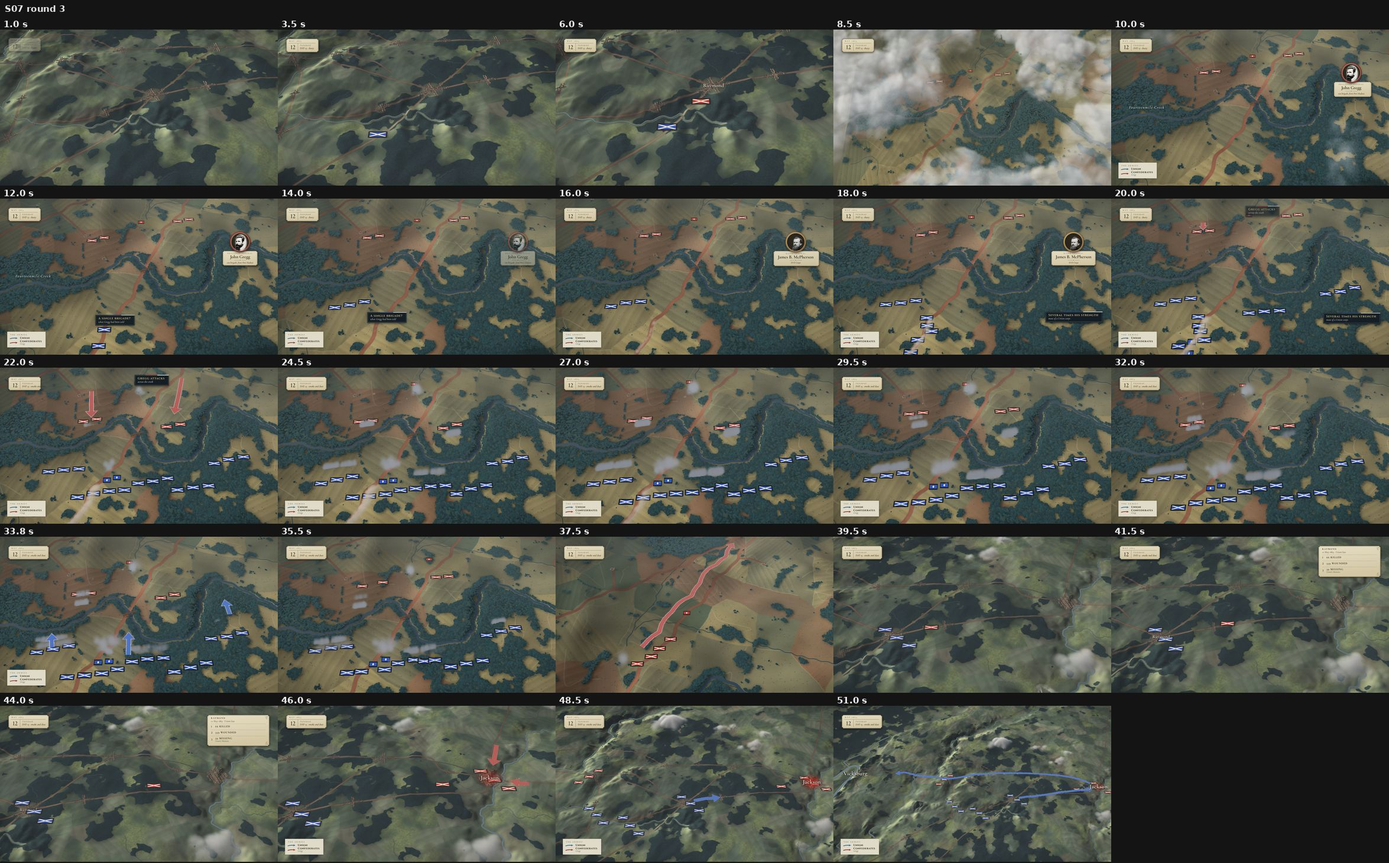
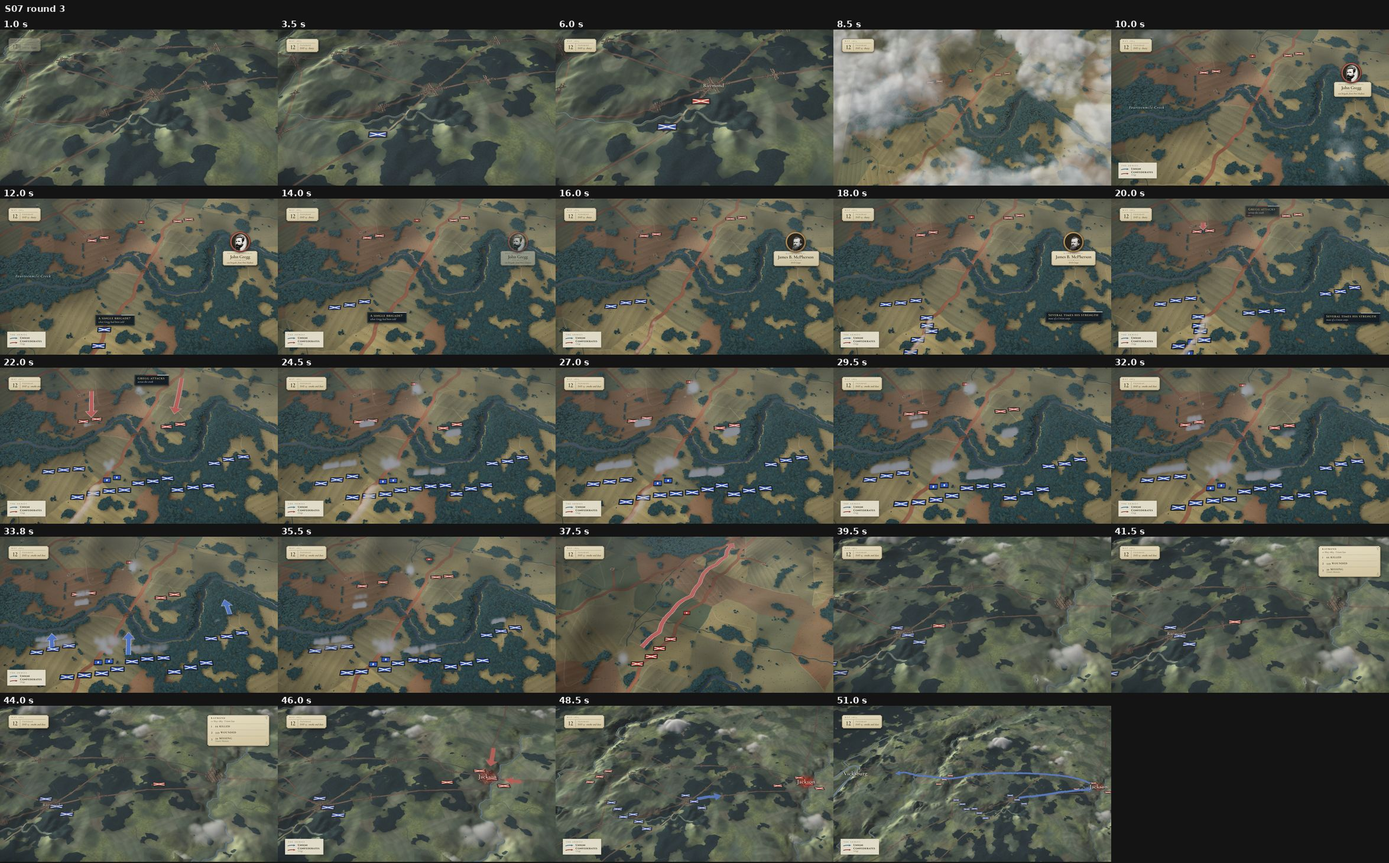
Vicksburg #19: round-3 fixes S05-S08; all scenes rebuilt for the final render
Claude-Session: https://claude.ai/code/session_011uJnjA7y1mRFw6KPGY1APG

diff --git a/vicksburg/tools/check_arrows_frame.js b/vicksburg/tools/check_arrows_frame.js
@@ -1,0 +1,25 @@
+// usage: node arrows_in_frame.js S06 [margin=0.06] : projects every arrow point (ground h=0) while the arrow is shown; reports points outside the safe frame
+const fs = require('fs'), vm = require('vm'), path = require('path');
+const V = '/home/user/battle-maps/vicksburg', sid = process.argv[2], M = +(process.argv[3] || 0.06);
+const ctx = { console, Math, JSON }; ctx.window = ctx; vm.createContext(ctx);
+const run = (f) => vm.runInContext(fs.readFileSync(f, 'utf8'), ctx, { filename: f });
+run(V + '/worlds/geo.js'); ctx.GM3D_PLACES = JSON.parse(fs.readFileSync(V + '/data/geo.json', 'utf8')).places || [];
+for (const d of fs.readdirSync(V + '/worlds')) { const f = path.join(V, 'worlds', d, 'region.js'); if (fs.existsSync(f)) run(f); }
+run(V + '/engine/seqlib.js'); run(`${V}/sequences/${sid}/seq.js`);
+const S = ctx.SEQ, EASE = { io: (k) => 0.5 - 0.5 * Math.cos(Math.PI * k), in: (k) => k ** 3, out: (k) => 1 - (1 - k) ** 3, lin: (k) => k, cut: (k) => k };
+const K = S.keys.map((k) => ({ fov: 30, yaw: 0, tilt: 45, ...k }));
+const lerp = (a, b, k) => a + (b - a) * k;
+function cam(t) { let i = 0; while (i < K.length - 1 && K[i + 1].t <= t) i++; const a = K[i], b = K[Math.min(i + 1, K.length - 1)];
+  if (b === a || b.ease === 'cut' || t <= a.t) return a; const e = EASE[b.ease || 'io'](Math.min(1, (t - a.t) / (b.t - a.t))), L = (p, q) => lerp(p, q, e);
+  return { region: a.region, at: [L(a.at[0], b.at[0]), L(a.at[1], b.at[1])], dist: Math.exp(lerp(Math.log(a.dist), Math.log(b.dist), e)), tilt: L(a.tilt, b.tilt), yaw: L(a.yaw, b.yaw), fov: L(a.fov, b.fov) }; }
+const n = (v) => { const l = Math.hypot(...v); return v.map((q) => q / l); };
+function proj(c, q) { const tl = c.tilt * Math.PI / 180, yw = c.yaw * Math.PI / 180, back = Math.sin(tl) * c.dist, up = Math.cos(tl) * c.dist;
+  const P = [c.at[0] + Math.sin(yw) * back, up, c.at[1] + Math.cos(yw) * back]; const f = n([c.at[0] - P[0], -up, c.at[1] - P[2]]);
+  const r = n([-f[2], 0, f[0]]); const u = [r[1] * f[2] - r[2] * f[1], r[2] * f[0] - r[0] * f[2], r[0] * f[1] - r[1] * f[0]];
+  const tv = Math.tan(c.fov * Math.PI / 360), th = tv * 16 / 9; const d = [q[0] - P[0], 0 - P[1], q[1] - P[2]]; const z = d[0] * f[0] + d[1] * f[1] + d[2] * f[2];
+  return [(d[0] * r[0] + d[1] * r[1] + d[2] * r[2]) / (z * th), (d[0] * u[0] + d[1] * u[1] + d[2] * u[2]) / (z * tv)]; }
+const lim = 1 - 2 * M; let bad = 0;
+(S.arrows || []).forEach((a, ai) => { const ta = a.t0 + (a.dur || 1), tb = Math.min(a.t1 ?? S.D, S.D); const hits = {};
+  for (let t = ta; t <= tb; t += 0.5) { const c = cam(t); if (a.region && c.region !== a.region) continue; a.pts.forEach((p, pi) => { const [x, y] = proj(c, p); if (Math.abs(x) > lim || Math.abs(y) > lim) { const k = pi; (hits[k] = hits[k] || []).push(`${t.toFixed(1)}:(${((x + 1) * 960).toFixed(0)},${((1 - y) * 540).toFixed(0)})`); } }); }
+  const ks = Object.keys(hits); if (ks.length) { bad++; console.log(`arrow ${ai} [${a.t0.toFixed(1)}-${tb.toFixed(1)}] side=${a.side || a.color}`); ks.forEach((k) => console.log(`   pt ${k} ${JSON.stringify(a.pts[k].map((v) => +v.toFixed(1)))} out: ${hits[k].slice(0, 4).join(' ')}${hits[k].length > 4 ? ' ...' + hits[k].length : ''}`)); } });
+console.log(`${sid}: ${bad ? bad + ' arrows leave the ' + M * 100 + '% safe frame' : 'all arrows inside the safe frame'}`);

diff --git a/vicksburg/sequences/S07/seq.js b/vicksburg/sequences/S07/seq.js
@@ -54,7 +54,7 @@ units.push({ side: "r", type: "inf", n: 1, region: WD, face: S_, t0: T.brigade, 
 units.push({ side: "u", type: "inf", n: 1, region: WD, face: N, t0: 1.2, t1: DV.SW, keys: [[0, 1660, 812], [DV.SW, 1683, 790]] });                    // McPherson's column
 units.push({ side: "u", type: "inf", n: 3, region: WD, face: VX.FACE.ne, t0: CUT, keys: [[CUT, WR[0] + 4, WR[1] + 4], [D, WR[0] + 8, WR[1] + 1]] });   // McPherson at Raymond
 units.push({ side: "u", type: "inf", n: 3, region: WD, face: VX.FACE.ne, t0: CUT, keys: [[CUT, 1648, 790]] });                                      // the rest of Grant's army, south-west
-units.push({ side: "u", type: "inf", n: 3, region: WD, face: VX.FACE.ne, t0: CUT, keys: [[CUT, 1602, 772]] });
+units.push({ side: "u", type: "inf", n: 3, region: WD, face: VX.FACE.ne, t0: CUT, keys: [[CUT, 1616, 768]] });   // round 3: inside the left edge
 units.push({ side: "r", type: "inf", n: 1, region: WD, face: Math.PI, t0: CUT, keys: [[CUT, 1748, 752], [46.0, 1846, 733]] });                      // Gregg falls back to Jackson
 units.push({ side: "r", type: "inf", n: 3, region: WD, face: VX.FACE.sw, t0: T.gathering + 0.2, keys: [[0, WJ[0] + 4, WJ[1] + 2]] });                // the force at Jackson
 units.push({ side: "r", type: "inf", n: 3, region: WD, face: VX.FACE.se, t0: CUT, keys: [[CUT, WE[0] - 6, WE[1] + 4]] });                           // Pemberton near Edwards
@@ -127,8 +127,8 @@ window.SEQ = {
     { t: 31.0, region: RY, at: [1690.6, 785.6], dist: 30, tilt: 37, yaw: -11, fov: 30 },
     { t: 35.6, region: RY, at: [1691.2, 784.4], dist: 31.5, tilt: 40, yaw: -12, fov: 30 },   // round 3: the south line stays in frame
     { t: CUT, region: RY, at: [1707.0, 765.0], dist: 36, tilt: 42, yaw: -12, fov: 30 },
-    { t: CUT, region: WD, at: [1790, 738], dist: 290, tilt: 46, yaw: -4, fov: 30, ease: "cut" },
-    { t: 46.4, region: WD, at: [1821, 731], dist: 274, tilt: 46, yaw: -3, fov: 30 },   // round 3: Jackson and its arrows well inside the frame
+    { t: CUT, region: WD, at: [1786, 738], dist: 318, tilt: 46, yaw: -4, fov: 30, ease: "cut" },
+    { t: 46.4, region: WD, at: [1812, 733], dist: 318, tilt: 46, yaw: -3, fov: 30 },   // round 3: Jackson and its arrows well inside the frame
     { t: 50.6, region: WD, at: [1636, 714], dist: 600, tilt: 44, yaw: 0, fov: 30 },
     { t: D, region: WD, at: [1630, 713], dist: 615, tilt: 44, yaw: 0, fov: 30 },
   ],

diff --git a/vicksburg/sequences/S08/NOTES.md b/vicksburg/sequences/S08/NOTES.md
@@ -37,3 +37,23 @@ Open issues
 | A: world edge at the landing (top-left) | dive target / landing re-aimed (1857, 713, dist 28, tilt 44, yaw 0) inside the jackson box; Crocker's start moved off the west edge |
 | A: quote dims the map | tent-cloth quote `dim: 0.4` |
 `check_paths.js S08`: OK. Open: the blue wash is a DOM disc over the canvas, so on the close factory shot it tints the fire slightly.
+
+## Round 3 fixes (critics round2_A + round2_B)
+- Close factory shot keeps Jackson brick-red under the Union flag (B N8 + A N1, sev 2) and the magenta cast: the DOM blue discs on the close world
+  are gone. New `GROUND(ctx)` (build hook): a terrain-following disc over the town (radius 6.4, soft rim) with a grey-ochre glaze (alpha 0.30)
+  that takes the rust out of the streets plus a light Union-blue wash (alpha 0.15) from "flew"; both are ON THE GROUND (under houses, boxes,
+  flag and fire, so the fire stays orange), darkened at night. Measured: no magenta cast; the town reads grey-blue, not red.
+- Pale-red road "X" 30-55 (A, sev 2): the four pike roads of the close world are glazed with a soft-edged grey-ochre ribbon (0.42 wide,
+  alpha 0.62, terrain-following): the X now reads as dusty grey roads.
+- Quote text over Grant's banner 36-45 (A N8, sev 2): quote card y 640 -> 850 (renders below the banner; nothing under it).
+- Wide clouds 84-96 (A N6, sev 2): three keepClear zones on the lower third of the day shot; the final day shot also widened (dist 372-388) so
+  Jackson's corps and its arrow are inside the right edge; Pemberton's banner lifted off the "Edwards" name.
+- Slanted boxes 30-55 (A N7, sev 2): the street boxes framed nearer the image centre (around the factory) and the shot less oblique
+  (tilt 54-55 -> 49-51).
+- Sherman card moved to the left (screen [330, 400]): it covered the capitol flag at 31.
+- Arrows in the 6 % frame: Crocker's charge arrow gone at 17.0 before the pan; the order-to-Pemberton arrow ends inside the frame; the Jackson
+  day arrow starts 10 units further west. (Sherman's close push arrow and the red column arrow 14-18 are off-frame for the whole dive landing,
+  invisible as in round 2.)
+- "O. P. Wright farm" label from SW + 1 (engine dive default changed: DV.emerge is earlier now). Dive checked 12.2 / 12.7 / 13.0 / 13.6: fine.
+- Checks: check_paths OK, check_edges OK, check_escapes as round 2.
+- Open: night shot 81-86 has boxes touching the right/bottom edge (pre-existing, not in the critics' lists).

diff --git a/vicksburg/sequences/S06/NOTES.md b/vicksburg/sequences/S06/NOTES.md
@@ -33,3 +33,18 @@ Open issues
 | A sev 1: lone arrowhead before its shaft (ghost arrow) | engine `troops3d.js` arrows: the head now grows with the drawn length (no head before the shaft); finished arrows unchanged |
 | A: quotes dim the map, picture frozen | both quote cards `dim: 0.4` (~18 %); camera keeps drifting under the cut-loose quote (22.6 -> 32.6 now moves 28 units and 24 dist) |
 | B sev 3: rotated boxes | engine (boxes face the camera) |
+
+## Round 3 fixes (critics round2_A + round2_B)
+- Blue arrow through Grant's banner ~90 (A, sev 2): Grant's banner now rides ~26 units NORTH of the arrow (68-77), never on it.
+- Arrows inside a 6 % margin (A N5, sev 2), checked every 0.5 s with a projection of each arrow point:
+  supply line fades at 20.4 as the camera turns to Pemberton (it would leave through the bottom edge during the quote); Sherman's crossing arrow
+  shortened; the real north-east arrow hands over twice to its own front part (72.0, 79.0) so its tail falls away behind the army instead of
+  running off the bottom-left; railroad arrow trimmed to x > 1500; reinforcement arrow from the east shortened and drawn at 79.9 once the camera
+  settles. Result: all arrows inside the safe frame.
+- Red box over the "n" of Jackson (A, sev 1): Jackson name placed left of the town; Johnston label below his boxes; "Pemberton" stakes label
+  moved off Grant's banner.
+- Frame edges: 66.2 key wider (the three corps stay inside the bottom edge), corps march faster (reach their 79 s positions by 76.6-77.4) so
+  they keep up with the pan; legend steps out 66.6-80.6 while the corps cross its corner; Vicksburg mass, name and Pemberton banner step out
+  at ~71 before the pan cuts them; final shot (81.6-D) widened to dist 525-540 so Big Black mass, Jackson and both red arrows sit inside.
+- Checks: check_paths OK, check_edges OK, arrows inside 6 %. (check_escapes does not apply: wide only.)
+- Open (not in the critics' lists): wagons enter at the left edge 41-45; Pemberton's banner near the top edge ~65 as the camera moves.

diff --git a/vicksburg/sequences/S07/NOTES.md b/vicksburg/sequences/S07/NOTES.md
@@ -30,3 +30,18 @@ other than McPherson's are approximate (Sherman near Dillon's, McClernand toward
 | B sev 2: Gregg's boxes vanish 36-38 (covered by the retreat arrow) | the retreat arrows run 1.7 units beside the road, so the column stays visible all the way into Raymond; the cut frames Raymond (36.6) |
 | B sev 1: plaque "hot and dusty" | "DAY 13 · dusty" |
 | A: boxes tiny, cotton smoke | troopScale close 1.45 -> 1.9, wide 15 -> 20; battalion curtains as S05; gun plumes 0.6 |
+
+## Round 3 fixes (critics round2_A + round2_B)
+- Smoke puffs 24-33 (A, sev 2) -> battalion curtains (same settings as S05), each seated just in front of its line on its own bank (red curtains
+  between Gregg's boxes and the creek, Union curtains between Logan / Crocker and the creek), never on the boxes: the Union step-ups at 33-35
+  now stop short of their curtains (U1b 786.7, U2b 789.95, U3 788.7).
+- Arrow width / creek 33-36 (A, sev 2): the three "weight of the corps" arrows are short (width 0.2) pushes from just in front of each line to
+  the south bank of Fourteenmile Creek (creek points checked), gone (34.5-34.8) before the boxes step up: no arrowhead on its own box, none from
+  off-frame.
+- Arrows in the 6 % frame: Gregg's retreat arrow fades at 38.0 before the camera leaves its tail; the two reinforcement arrows into Jackson
+  shortened and fade at 47.4 / 47.6 before the pull-back; wide keys 39-46 a little wider (dist 318) so McPherson at Raymond and Jackson's
+  arrows sit inside; "rest of the army" unit nudged inside the left edge.
+- Legend steps out 34.9-44.6 (Union boxes crossing under its corner, then the ledger).
+- 35.6 key 1 unit south: the south line stays in frame while Gregg leaves.
+- Dive (engine short white-out, boxes hidden in the deck): checked 7.6 / 8.1 / 8.4 / 9.0: fine.
+- Checks: check_paths OK, check_edges OK, check_escapes as round 2, arrows inside 6 %.

diff --git a/vicksburg/sequences/S05/NOTES.md b/vicksburg/sequences/S05/NOTES.md
@@ -36,3 +36,16 @@ South Fork (Little Bayou Pierre) generically.
 | A: world edge top-right 57-65 | end keys lower (tilt 50 -> 46, dist 37) |
 | A sev 1: blue boxes cut at 40 s | ridge columns sit higher in frame; blue arrows start 6 units up the roads |
 `node tools/check_paths.js S05`: OK. Open: the deployed columns bunch near the fork for ~2 s at the night -> dawn dissolve (19-21 s).
+
+## Round 3 fixes (critics round2_A + round2_B)
+- Smoke puffs 39-48 (A, sev 2) -> battalion curtains: every volley line is now a short line of curtains (`cur()`), seated ~1 unit IN FRONT of
+  its line (moves with each halt / the counterattack), many small grey puffs (size 0.55, rate 22, cluster [1.6, 0.35], tint grey, fadeAfter 6 s).
+  Added the missing Bruinsburg-road Union curtain 42-45 and Cockrell's curtain at his furthest point.
+- Bottom boxes cut 40-63 (A, sev 1): battle keys 35-65 moved west 1.5-2.5 units and out 2-4 units; Union columns tightened (lags 1.5 not 1.75),
+  guns one row further up and moved forward from 45.8; checked on stills 33-64 (nothing cut). Legend steps out at 46.6 (units under its corner,
+  then the ledger: one big card at a time).
+- Bowen arrow 12.6-17.4 crossed the Little Bayou Pierre beside the bridge and ran off the top: now two red arrows out of Port Gibson along the two
+  ridge roads (on the roads, inside the 6 % frame).
+- "Pressed on both ridges" label moved off Tracy's retreating boxes; second "Port Gibson" label beside the town, off the red columns.
+- Checks: check_paths OK; arrows inside 6 % (scratch tool); check_edges reports the TL corner beyond the region box (y 986 < 990) for the whole
+  scene, same count as the round-2 version (no edge visible on any still; the bake has margin) - unchanged, flagged for the lead.
